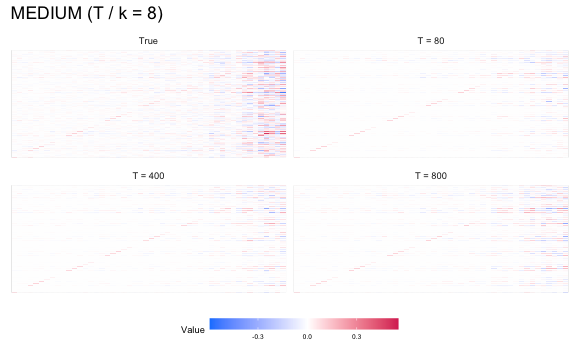
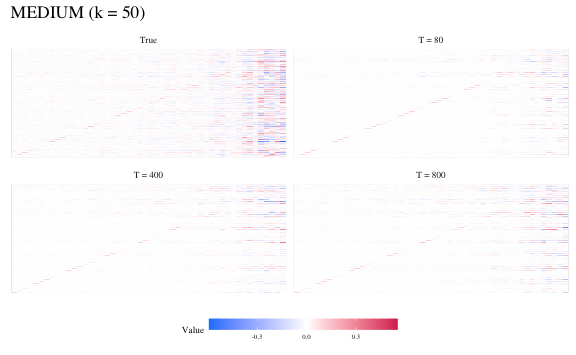
get analysis hyperparam table and change plot font to serif

diff --git a/docs/analysis.md b/docs/analysis.md
@@ -1,7 +1,7 @@
 Empirical Analysis
 ================
 Young Geun Kim
-14 Jun, 2022
+15 Jun, 2022
 
 -   [Data](#data)
     -   [Split](#split)
@@ -92,8 +92,8 @@ data_plt <-
   theme_minimal() +
   theme(
     panel.border = element_rect(fill = NA),
-    # strip.text = element_text(size = 5),
-    axis.text.y = element_text(size = 5)
+    axis.text.y = element_text(size = 5),
+    text = element_text(family = "serif")
   ) +
   labs(
     x = element_blank(),
@@ -103,6 +103,8 @@ data_plt
 ```
 
 <img src="../output/figs/analysis-dataplot-1.png" width="70%" style="display: block; margin: auto;" />
+
+Save:
 
 ``` r
 ggsave(
@@ -219,7 +221,8 @@ resid_ccf <-
   theme(
     panel.border = element_rect(fill = NA),
     axis.text.y = element_text(size = 5),
-    axis.text.x = element_text(size = 5)
+    axis.text.x = element_text(size = 5),
+    text = element_text(family = "serif")
   ) +
   labs(
     title = element_blank(),
@@ -230,6 +233,8 @@ resid_ccf
 ```
 
 <img src="../output/figs/analysis-residccf-1.png" width="70%" style="display: block; margin: auto;" />
+
+Save:
 
 ``` r
 ggsave(
@@ -474,6 +479,58 @@ parallel::stopCluster(cl)
 
 ## Hyperparamers
 
+``` r
+spec_list <- list(
+  bvar = bvar_optim$spec,
+  bvhar_s = bvhar_var_optim$spec,
+  bvhar_l = bvhar_vhar_optim$spec
+)
+```
+
+``` r
+report_hyperparam(spec_list = spec_list, report_true = TRUE, caption = "Hyperparameter Selection", label = "analysis-emp") %>% 
+  writeLines()
+\begin{table}
+
+\caption{\label{tab:analysis-emp}Hyperparameter Selection}
+\centering
+\resizebox{\linewidth}{!}{
+\begin{tabular}[t]{llrrrrrrrrr}
+\toprule
+ &  & GVZ & OVX & VXFXI & VXEEM & VXSLV & EVZ & VXXLE & VXGDX & VXEWZ\\
+\midrule
+\addlinespace[0.3em]
+\multicolumn{11}{l}{\textbf{BVAR}}\\
+\hspace{1em} & $\sigma_j$ & 1.8924 & 6.107 & 2.4877 & 1.7998 & 4.226 & 1.301 & 1.936 & 5.474 & 5.7440\\
+
+\hspace{1em} & $\lambda$ & 0.0279 &  &  &  &  &  &  &  & \\
+
+\hspace{1em} & $\delta_j$ & 0.8953 & 0.976 & 0.9306 & 0.9475 & 0.881 & 0.966 & 0.965 & 0.944 & 0.9703\\
+\cmidrule{1-11}
+\addlinespace[0.3em]
+\multicolumn{11}{l}{\textbf{BVHAR-S}}\\
+\hspace{1em} & $\sigma_j$ & 2.3644 & 4.341 & 2.6413 & 2.3780 & 3.646 & 1.223 & 2.469 & 4.712 & 5.2994\\
+
+\hspace{1em} & $\lambda$ & 0.0332 &  &  &  &  &  &  &  & \\
+
+\hspace{1em} & $\delta_j$ & 0.8784 & 0.973 & 0.9357 & 0.9454 & 0.861 & 0.956 & 0.956 & 0.938 & 0.9729\\
+\cmidrule{1-11}
+\addlinespace[0.3em]
+\multicolumn{11}{l}{\textbf{BVHAR-L}}\\
+\hspace{1em} & $\sigma_j$ & 3.0711 & 9.511 & 3.2453 & 3.4786 & 5.544 & 1.000 & 3.818 & 7.012 & 6.6986\\
+
+\hspace{1em} & $\lambda$ & 0.0001 &  &  &  &  &  &  &  & \\
+
+\hspace{1em} & $d_j$ & 0.8108 & 0.913 & 0.9362 & 0.8638 & 0.766 & 0.930 & 0.908 & 0.846 & 0.9587\\
+
+\hspace{1em} & $w_j$ & 0.1634 & 0.157 & 0.0171 & 0.0987 & 0.238 & 0.010 & 0.010 & 0.200 & 0.0100\\
+
+\hspace{1em} & $m_j$ & 0.2121 & 0.010 & 0.0737 & 0.2057 & 0.234 & 0.166 & 0.189 & 0.102 & 0.0376\\
+\bottomrule
+\end{tabular}}
+\end{table}
+```
+
 # Errors
 
 ``` r
@@ -644,7 +701,8 @@ interval_plt <-
   theme(
     panel.border = element_rect(fill = NA),
     axis.text.x = element_blank(),
-    legend.position = "top"
+    legend.position = "top",
+    text = element_text(family = "serif")
   ) +
   scale_color_discrete(labels = bayesmod_name) +
   scale_fill_discrete(labels = bayesmod_name)
@@ -663,7 +721,8 @@ bayesmod_plt <-
   theme(
     panel.border = element_rect(fill = NA),
     axis.text.x = element_blank(),
-    legend.position = "top"
+    legend.position = "top",
+    text = element_text(family = "serif")
   ) +
   scale_color_discrete(labels = bayesmod_name) +
   scale_fill_discrete(labels = bayesmod_name)

diff --git a/docs/sim-consistency.md b/docs/sim-consistency.md
@@ -1,7 +1,7 @@
 Simulation for Consistency
 ================
 Young Geun Kim
-14 Jun, 2022
+15 Jun, 2022
 
 -   [Fit Models](#fit-models)
     -   [BVHAR-S](#bvhar-s)
@@ -266,10 +266,11 @@ small_s_heatmap <-
     legend.key.width = unit(heatmaplegend_width, "cm"),
     legend.key.height = unit(heatmaplegend_height, "cm"),
     legend.title = element_text(size = heatmaplegend_title),
-    legend.text = element_text(size = heatmaplegend_text)
+    legend.text = element_text(size = heatmaplegend_text),
+    text = element_text(family = "serif")
   ) +
   facet_wrap(model ~ .) +
-  labs(title = "SMALL (T / k = 4)")
+  labs(title = "SMALL (k = 10)")
 small_s_heatmap
 ```
 
@@ -312,10 +313,11 @@ medium_s_heatmap <-
     legend.key.width = unit(heatmaplegend_width, "cm"),
     legend.key.height = unit(heatmaplegend_height, "cm"),
     legend.title = element_text(size = heatmaplegend_title),
-    legend.text = element_text(size = heatmaplegend_text)
+    legend.text = element_text(size = heatmaplegend_text),
+    text = element_text(family = "serif")
   ) +
   facet_wrap(model ~ .) +
-  labs(title = "MEDIUM (T / k = 8)")
+  labs(title = "MEDIUM (k = 50)")
 medium_s_heatmap
 ```
 
@@ -358,10 +360,11 @@ large_s_heatmap <-
     legend.key.width = unit(heatmaplegend_width, "cm"),
     legend.key.height = unit(heatmaplegend_height, "cm"),
     legend.title = element_text(size = heatmaplegend_title),
-    legend.text = element_text(size = heatmaplegend_text)
+    legend.text = element_text(size = heatmaplegend_text),
+    text = element_text(family = "serif")
   ) +
   facet_wrap(model ~ .) +
-  labs(title = "LARGE (T / k = 12)")
+  labs(title = "LARGE (k = 100)")
 large_s_heatmap
 ```
 
@@ -418,10 +421,11 @@ small_l_heatmap <-
     legend.key.width = unit(heatmaplegend_width, "cm"),
     legend.key.height = unit(heatmaplegend_height, "cm"),
     legend.title = element_text(size = heatmaplegend_title),
-    legend.text = element_text(size = heatmaplegend_text)
+    legend.text = element_text(size = heatmaplegend_text),
+    text = element_text(family = "serif")
   ) +
   facet_wrap(model ~ .) +
-  labs(title = "SMALL (T / k = 4)")
+  labs(title = "SMALL (k = 10)")
 small_l_heatmap
 ```
 
@@ -462,10 +466,11 @@ medium_l_heatmap <-
     legend.key.width = unit(heatmaplegend_width, "cm"),
     legend.key.height = unit(heatmaplegend_height, "cm"),
     legend.title = element_text(size = heatmaplegend_title),
-    legend.text = element_text(size = heatmaplegend_text)
+    legend.text = element_text(size = heatmaplegend_text),
+    text = element_text(family = "serif")
   ) +
   facet_wrap(model ~ .) +
-  labs(title = "MEDIUM (T / k = 8)")
+  labs(title = "MEDIUM (k = 50)")
 medium_l_heatmap
 ```
 
@@ -506,10 +511,11 @@ large_l_heatmap <-
     legend.key.width = unit(heatmaplegend_width, "cm"),
     legend.key.height = unit(heatmaplegend_height, "cm"),
     legend.title = element_text(size = heatmaplegend_title),
-    legend.text = element_text(size = heatmaplegend_text)
+    legend.text = element_text(size = heatmaplegend_text),
+    text = element_text(family = "serif")
   ) +
   facet_wrap(model ~ .) +
-  labs(title = "LARGE (T / k = 12)")
+  labs(title = "LARGE (k = 100)")
 large_l_heatmap
 ```
 
@@ -874,7 +880,8 @@ ree_boxplt <-
   theme_minimal() +
   theme(
     panel.border = element_rect(fill = NA), 
-    legend.position = "top"
+    legend.position = "top",
+    text = element_text(family = "serif")
   ) +
   labs(
     x = "DGP",
